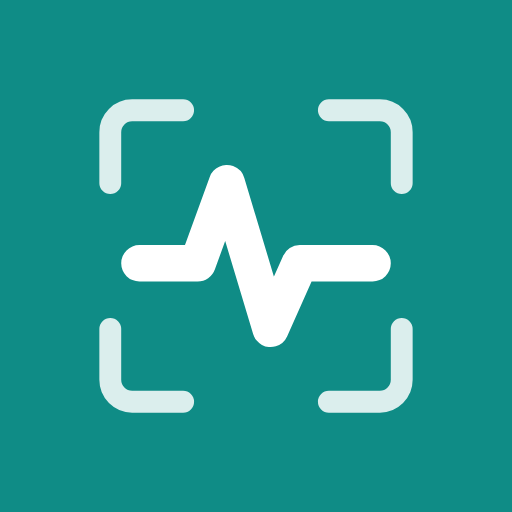
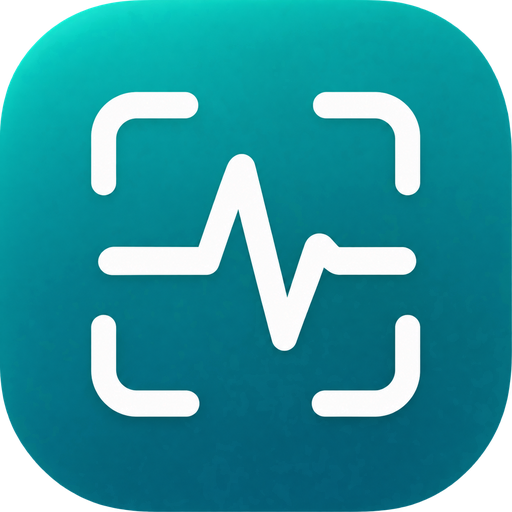
Íconos de Diego: verde para Kapta CSV (celular) y azul para Kapta Estación (computador)
La pestaña del navegador y el logo de cada parte llevan su ícono; la PWA usa el verde,
con versión de fondo completo para iPhone y maskable para Android.

Claude-Session: https://claude.ai/code/session_013gRv2nSKxcpwhXjNe1BLTZ

diff --git a/src/app/Logo.tsx b/src/app/Logo.tsx
@@ -1,12 +1,26 @@
-/** Ícono de Kapta: un visor de captura con la línea de pulso adentro. */
-export function Logo({ tam = 40 }: { readonly tam?: number }) {
-  return (
-    <svg width={tam} height={tam} viewBox="0 0 52 52" aria-hidden="true" style={{ flex: "none" }}>
-      <rect width="52" height="52" rx="12" fill="#0f8c86" />
-      <g fill="none" stroke="#fff" strokeLinecap="round" strokeLinejoin="round" transform="translate(6.5 6.5) scale(.75)">
-        <path d="M6 16V9a3 3 0 0 1 3-3h7M36 6h7a3 3 0 0 1 3 3v7M46 36v7a3 3 0 0 1-3 3h-7M16 46H9a3 3 0 0 1-3-3v-7" strokeWidth="3" opacity=".85" />
-        <path d="M10 27h8l4-11 6 20 4-9h10" strokeWidth="5" />
-      </g>
-    </svg>
-  );
+import { useEffect } from "react";
+import iconoCsv from "./iconos/kapta-csv.png?inline";
+import iconoEstacion from "./iconos/kapta-estacion.png?inline";
+
+/** Verde = Kapta CSV (celular, control de signos vitales). Azul = Kapta Estación (computador). */
+export type VarianteLogo = "csv" | "estacion";
+
+const ICONO: Record<VarianteLogo, string> = { csv: iconoCsv, estacion: iconoEstacion };
+
+export function Logo({ tam = 40, variante = "csv" }: { readonly tam?: number; readonly variante?: VarianteLogo }) {
+  return <img src={ICONO[variante]} width={tam} height={tam} alt="" aria-hidden="true" style={{ flex: "none", display: "block" }} />;
+}
+
+/** La pestaña del navegador lleva el ícono de la parte que está abierta. */
+export function useFavicon(variante: VarianteLogo): void {
+  useEffect(() => {
+    let link = document.querySelector<HTMLLinkElement>("link[rel='icon']");
+    if (!link) {
+      link = document.createElement("link");
+      link.rel = "icon";
+      document.head.appendChild(link);
+    }
+    link.type = "image/png";
+    link.href = ICONO[variante];
+  }, [variante]);
 }

diff --git a/src/app/App.tsx b/src/app/App.tsx
@@ -1,4 +1,5 @@
 import { useEffect, useState } from "react";
+import { useFavicon } from "./Logo";
 import { buscarProfesional } from "@core/index";
 import { Login, CLAVE_SESION, sesionVigente } from "../celular/Login";
 import type { SesionGuardada } from "../celular/Login";
@@ -57,6 +58,7 @@ export function App() {
   const sesion = useApp((s) => s.sesion);
   const setSesion = useApp((s) => s.setSesion);
   const ruta = useRuta();
+  useFavicon(ruta === "estacion" ? "estacion" : "csv");
 
   useEffect(() => {
     iniciarServicios().then(setServicios).catch((e: unknown) => setError(e instanceof Error ? e.message : String(e)));

diff --git a/vite.config.ts b/vite.config.ts
@@ -9,7 +9,7 @@ export default defineConfig({
     VitePWA({
       // La app se actualiza sola; los borradores sobreviven a la recarga (ver src/app/persistencia.ts).
       registerType: "autoUpdate",
-      includeAssets: ["pwa-192.png", "pwa-512.png", "pwa-maskable-512.png", "apple-touch-icon.png", "kapta.svg"],
+      includeAssets: ["pwa-192.png", "pwa-512.png", "pwa-maskable-512.png", "apple-touch-icon.png"],
       manifest: {
         name: "Kapta CSV · Control de signos vitales",
         short_name: "Kapta CSV",

diff --git a/src/estacion/Estacion.tsx b/src/estacion/Estacion.tsx
@@ -51,7 +51,7 @@ export function Estacion() {
     <div className="estacion">
       <div className="top">
         <div className="brand">
-          <h1 style={{ display: "flex", alignItems: "center", gap: 8 }}><Logo tam={28} />Kapta · Estación</h1>
+          <h1 style={{ display: "flex", alignItems: "center", gap: 8 }}><Logo tam={28} variante="estacion" />Kapta · Estación</h1>
           <small>Tablero, evolución para ALMA y estado de la unidad</small>
         </div>
         {local && (

diff --git a/index.html b/index.html
@@ -6,7 +6,7 @@
     <meta name="theme-color" content="#0f8c86" />
     <meta name="description" content="Plataforma satélite de monitorización kinésica a pie de cama · UCI Adulto" />
     <title>Kapta</title>
-    <link rel="icon" type="image/svg+xml" href="./kapta.svg" />
+    <link rel="icon" type="image/png" href="./pwa-192.png" />
     <link rel="apple-touch-icon" href="./apple-touch-icon.png" />
     <meta name="apple-mobile-web-app-title" content="Kapta CSV" />
   </head>
